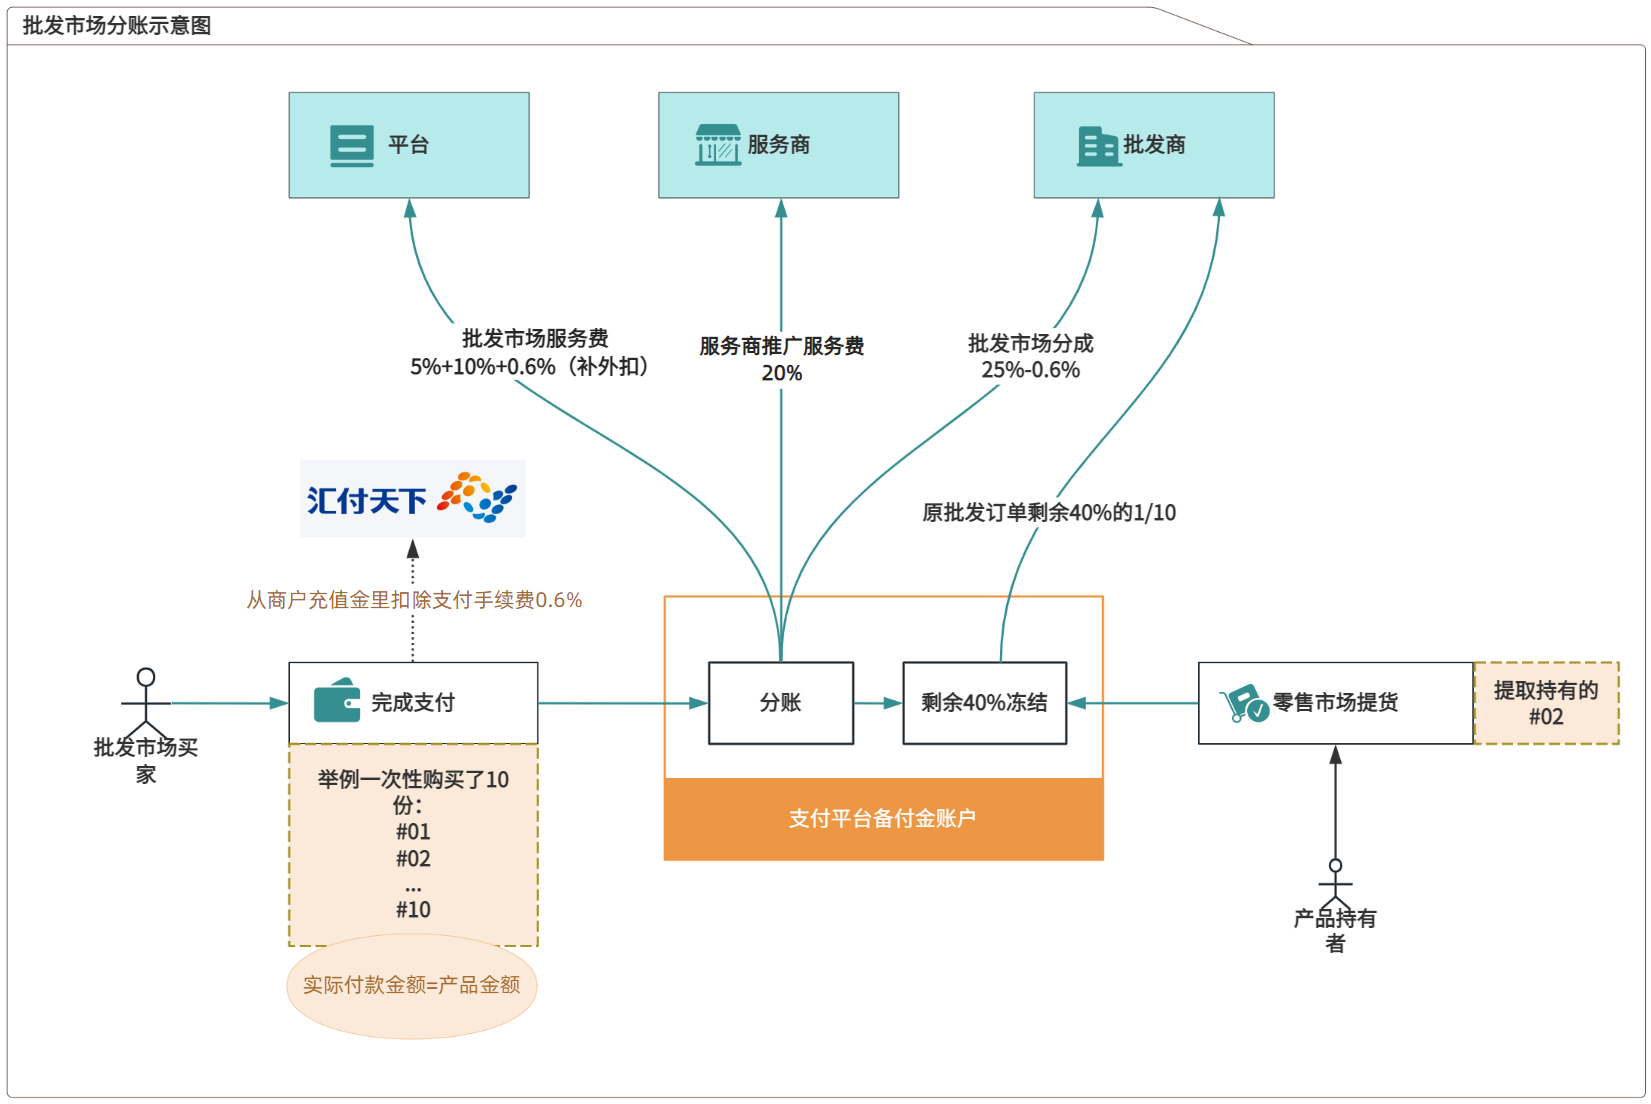
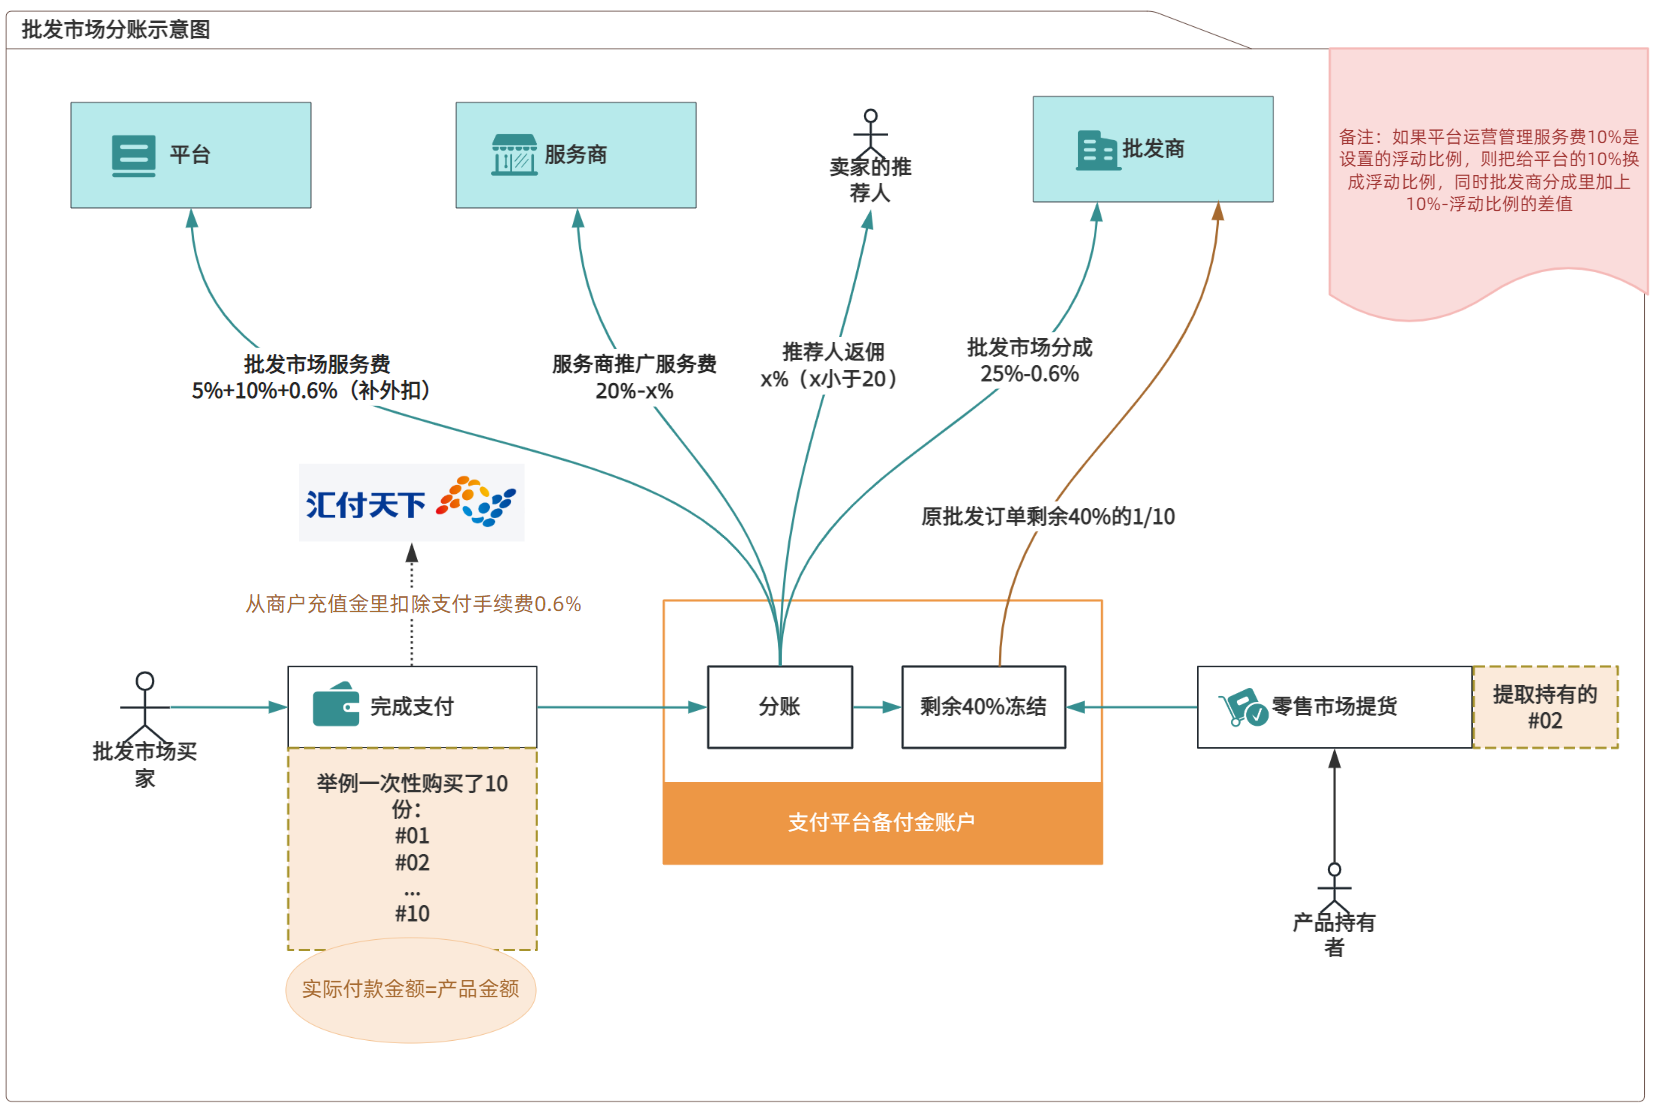
modify

diff --git a/huifu/admin/批发市场分账管理.html b/huifu/admin/批发市场分账管理.html
@@ -146,11 +146,12 @@
             background: #fff;
             margin: 12px;
             border-radius: 6px;
-            overflow: hidden;
+            overflow-x: auto;
         }
         .table {
             width: 100%;
             border-collapse: collapse;
+            table-layout: auto;
         }
         .table th {
             background: #fafbfc;
@@ -161,16 +162,20 @@
             font-weight: 500;
             border-bottom: 1px solid #f0f0f0;
             white-space: nowrap;
+            vertical-align: middle;
         }
         .table td {
-            padding: 12px 10px;
+            padding: 10px 10px;
             font-size: 12px;
             color: #1a1a2e;
             border-bottom: 1px solid #f5f5f7;
-            white-space: nowrap;
+            vertical-align: top;
         }
         .table tr:last-child td { border-bottom: none; }
-        .seq { color: #9ba6b9; }
+        .cell-main { font-weight: 500; }
+        .cell-sub { color: #86909c; font-size: 11px; margin-top: 2px; }
+        .cell-rate { color: #e67e22; font-size: 11px; margin-top: 2px; }
+        .amount-val { font-weight: 500; }
 
         .pagination {
             padding: 12px 20px;
@@ -287,27 +292,20 @@
     <table class="table">
         <thead>
             <tr>
-                <th class="seq">序号</th>
                 <th>订单编号</th>
                 <th>产品名称</th>
                 <th>用户账号</th>
-                <th>购买数量</th>
-                <th>单价</th>
+                <th>数量/单价</th>
                 <th>总价</th>
                 <th>第三方支付手续费</th>
                 <th>创建时间</th>
                 <th>首次分账时间</th>
                 <th>批发商分账</th>
-                <th>批发商分账比例</th>
                 <th>服务商分账</th>
-                <th>服务商分账比例</th>
+                <th>推荐人分账</th>
                 <th>平台分账</th>
-                <th>平台分账比例</th>
-                <th>零售市场分账总次数</th>
-                <th>零售市场分账总数量</th>
-                <th>零售市场分账总金额</th>
+                <th>零售市场分账</th>
                 <th>剩余金额</th>
-                <th>最后分账时间</th>
                 <th>零售市场最后分账时间</th>
             </tr>
         </thead>
@@ -333,13 +331,14 @@
     <h4>列表字段</h4>
     <ul>
       <li>订单编号、产品名称、用户账号、购买数量、单价、总价、第三方支付手续费、创建时间、首次分账时间</li>
-      <li>批发商分账、批发商分账比例、服务商分账、服务商分账比例、平台分账、平台分账比例、零售市场分账总次数、零售市场分账总数量、零售市场分账总金额、剩余金额、最后分账时间、零售市场最后分账时间</li>
+      <li>订单编号、产品名称、用户账号、数量/单价、总价、第三方支付手续费、创建时间、首次分账时间、批发商分账（金额+比例）、服务商分账（金额+比例）、推荐人分账（金额+比例）、平台分账（金额+比例）、零售市场分账（次数×数量/金额）、剩余金额、零售市场最后分账时间</li>
     </ul>
     <h4>首次分账逻辑</h4>
     <ul>
-      <li>平台分账：<b>15% + 0.6%</b></li>
-      <li>服务商分账：<b>20%</b></li>
-      <li>批发商分账：<b>25% - 0.6%</b></li>
+      <li>平台分账：<b>15% + 0.6%</b>（如果平台运营管理服务费设置的浮动比例，则是5%+浮动比例）</li>
+      <li>服务商分账：<b>20% - 3%</b>（20%-推荐人分账）</li>
+      <li>批发商分账：<b>25% - 0.6%</b>（如果平台运营管理服务费设置的浮动比例，则是25%+10%-浮动比例-0.6%）</li>
+      <li>推荐人分账：<b>3%</b>（根据后台设置，比如3%）</li>
     </ul>
     <h4>分账计算规则</h4>
     <ul>
@@ -352,12 +351,12 @@
 
 <script>
 var data = [
-    { id: 1, orderNo: 'XB-first26071505024701', product: '中路财童', userNo: '1876829699476860930', qty: 5, price: 128.00, total: 640.00, fee: 3.84, createTime: '2026-07-15 13:57:39', firstTime: '2026-07-15 14:00:01', wsShare: 156.16, wsRate: '25%-0.6%', svShare: 128.00, svRate: '20%', pfShare: 99.84, pfRate: '15%+0.6%', rCount: 3, rQty: 3, rAmount: 153.60, remain: 102.40, lastTime: '2026-07-18 09:00:00', rLastTime: '2026-07-18 10:12:33' },
-    { id: 2, orderNo: 'XB-first26071505016701', product: '中路财童', userNo: '1878638327087280130', qty: 8, price: 260.00, total: 2080.00, fee: 12.48, createTime: '2026-07-15 13:56:24', firstTime: '2026-07-15 13:58:02', wsShare: 507.52, wsRate: '25%-0.6%', svShare: 416.00, svRate: '20%', pfShare: 324.48, pfRate: '15%+0.6%', rCount: 5, rQty: 5, rAmount: 520.00, remain: 312.00, lastTime: '2026-07-16 09:00:00', rLastTime: '2026-07-16 09:20:11' },
-    { id: 3, orderNo: 'XB-first26071504105201', product: '中路财童', userNo: '1881547100063838210', qty: 12, price: 320.00, total: 3840.00, fee: 23.04, createTime: '2026-07-15 11:24:14', firstTime: '2026-07-15 11:26:45', wsShare: 936.96, wsRate: '25%-0.6%', svShare: 768.00, svRate: '20%', pfShare: 599.04, pfRate: '15%+0.6%', rCount: 0, rQty: 0, rAmount: 0.00, remain: 1536.00, lastTime: '-', rLastTime: '-' },
-    { id: 4, orderNo: 'XB-first26071504026701', product: '中路财童', userNo: '2061664641202323457', qty: 3, price: 100.00, total: 300.00, fee: 1.80, createTime: '2026-07-15 11:11:16', firstTime: '2026-07-15 11:12:30', wsShare: 73.20, wsRate: '25%-0.6%', svShare: 60.00, svRate: '20%', pfShare: 46.80, pfRate: '15%+0.6%', rCount: 2, rQty: 2, rAmount: 80.00, remain: 40.00, lastTime: '2026-07-15 11:10:00', rLastTime: '2026-07-15 11:12:31' },
-    { id: 5, orderNo: 'XB-first26071504008801', product: '中路财童', userNo: '1881528763372056578', qty: 6, price: 420.00, total: 2520.00, fee: 15.12, createTime: '2026-07-15 11:08:19', firstTime: '2026-07-15 11:10:05', wsShare: 614.88, wsRate: '25%-0.6%', svShare: 504.00, svRate: '20%', pfShare: 393.12, pfRate: '15%+0.6%', rCount: 4, rQty: 4, rAmount: 672.00, remain: 336.00, lastTime: '2026-07-19 15:00:00', rLastTime: '2026-07-19 15:42:58' },
-    { id: 6, orderNo: 'XB-first26071503857801', product: '中路财童', userNo: '1977229438734100253', qty: 9, price: 180.00, total: 1620.00, fee: 9.72, createTime: '2026-07-15 10:42:58', firstTime: '2026-07-15 10:45:12', wsShare: 395.28, wsRate: '25%-0.6%', svShare: 324.00, svRate: '20%', pfShare: 252.72, pfRate: '15%+0.6%', rCount: 6, rQty: 6, rAmount: 432.00, remain: 216.00, lastTime: '2026-07-16 14:00:00', rLastTime: '2026-07-16 14:05:20' }
+    { id: 1, orderNo: 'XB-first26071505024701', product: '中路财童', userNo: '1876829699476860930', qty: 5, price: 128.00, total: 640.00, fee: 3.84, createTime: '2026-07-15 13:57:39', firstTime: '2026-07-15 14:00:01', wsShare: 156.16, wsRate: '25%-0.6%', svShare: 108.80, svRate: '20%-3%', recommendShare: 19.20, recommendRate: '3%', pfShare: 99.84, pfRate: '15%+0.6%', rCount: 3, rQty: 3, rAmount: 165.12, remain: 110.08, lastTime: '2026-07-18 09:00:00', rLastTime: '2026-07-18 10:12:33' },
+    { id: 2, orderNo: 'XB-first26071505016701', product: '中路财童', userNo: '1878638327087280130', qty: 8, price: 260.00, total: 2080.00, fee: 12.48, createTime: '2026-07-15 13:56:24', firstTime: '2026-07-15 13:58:02', wsShare: 507.52, wsRate: '25%-0.6%', svShare: 353.60, svRate: '20%-3%', recommendShare: 62.40, recommendRate: '3%', pfShare: 324.48, pfRate: '15%+0.6%', rCount: 5, rQty: 5, rAmount: 559.00, remain: 335.40, lastTime: '2026-07-16 09:00:00', rLastTime: '2026-07-16 09:20:11' },
+    { id: 3, orderNo: 'XB-first26071504105201', product: '中路财童', userNo: '1881547100063838210', qty: 12, price: 320.00, total: 3840.00, fee: 23.04, createTime: '2026-07-15 11:24:14', firstTime: '2026-07-15 11:26:45', wsShare: 936.96, wsRate: '25%-0.6%', svShare: 652.80, svRate: '20%-3%', recommendShare: 115.20, recommendRate: '3%', pfShare: 599.04, pfRate: '15%+0.6%', rCount: 0, rQty: 0, rAmount: 0.00, remain: 1651.20, lastTime: '-', rLastTime: '-' },
+    { id: 4, orderNo: 'XB-first26071504026701', product: '中路财童', userNo: '2061664641202323457', qty: 3, price: 100.00, total: 300.00, fee: 1.80, createTime: '2026-07-15 11:11:16', firstTime: '2026-07-15 11:12:30', wsShare: 73.20, wsRate: '25%-0.6%', svShare: 51.00, svRate: '20%-3%', recommendShare: 9.00, recommendRate: '3%', pfShare: 46.80, pfRate: '15%+0.6%', rCount: 2, rQty: 2, rAmount: 86.00, remain: 43.00, lastTime: '2026-07-15 11:10:00', rLastTime: '2026-07-15 11:12:31' },
+    { id: 5, orderNo: 'XB-first26071504008801', product: '中路财童', userNo: '1881528763372056578', qty: 6, price: 420.00, total: 2520.00, fee: 15.12, createTime: '2026-07-15 11:08:19', firstTime: '2026-07-15 11:10:05', wsShare: 614.88, wsRate: '25%-0.6%', svShare: 428.40, svRate: '20%-3%', recommendShare: 75.60, recommendRate: '3%', pfShare: 393.12, pfRate: '15%+0.6%', rCount: 4, rQty: 4, rAmount: 722.40, remain: 361.20, lastTime: '2026-07-19 15:00:00', rLastTime: '2026-07-19 15:42:58' },
+    { id: 6, orderNo: 'XB-first26071503857801', product: '中路财童', userNo: '1977229438734100253', qty: 9, price: 180.00, total: 1620.00, fee: 9.72, createTime: '2026-07-15 10:42:58', firstTime: '2026-07-15 10:45:12', wsShare: 395.28, wsRate: '25%-0.6%', svShare: 275.40, svRate: '20%-3%', recommendShare: 48.60, recommendRate: '3%', pfShare: 252.72, pfRate: '15%+0.6%', rCount: 6, rQty: 6, rAmount: 464.40, remain: 232.20, lastTime: '2026-07-16 14:00:00', rLastTime: '2026-07-16 14:05:20' }
 ];
 
 function renderTable() {
@@ -365,27 +364,20 @@ function renderTable() {
     data.forEach(function(o) {
         html += [
             '<tr>',
-            '    <td class="seq">' + o.id + '</td>',
             '    <td>' + o.orderNo + '</td>',
             '    <td>' + o.product + '</td>',
             '    <td>' + o.userNo + '</td>',
-            '    <td>' + o.qty + '</td>',
-            '    <td>' + o.price.toFixed(2) + '</td>',
-            '    <td>' + o.total.toFixed(2) + '</td>',
-            '    <td>' + o.fee.toFixed(2) + '</td>',
+            '    <td><div class="cell-main">' + o.qty + '</div><div class="cell-sub">¥' + o.price.toFixed(2) + '</div></td>',
+            '    <td><div class="amount-val">¥' + o.total.toFixed(2) + '</div></td>',
+            '    <td><div>¥' + o.fee.toFixed(2) + '</div></td>',
             '    <td>' + o.createTime + '</td>',
             '    <td>' + o.firstTime + '</td>',
-            '    <td>' + o.wsShare.toFixed(2) + '</td>',
-            '    <td>' + o.wsRate + '</td>',
-            '    <td>' + o.svShare.toFixed(2) + '</td>',
-            '    <td>' + o.svRate + '</td>',
-            '    <td>' + o.pfShare.toFixed(2) + '</td>',
-            '    <td>' + o.pfRate + '</td>',
-            '    <td>' + o.rCount + '</td>',
-            '    <td>' + o.rQty + '</td>',
-            '    <td>' + o.rAmount.toFixed(2) + '</td>',
-            '    <td>' + o.remain.toFixed(2) + '</td>',
-            '    <td>' + (o.lastTime || '-') + '</td>',
+            '    <td><div class="cell-main">¥' + o.wsShare.toFixed(2) + '</div><div class="cell-rate">' + o.wsRate + '</div></td>',
+            '    <td><div class="cell-main">¥' + o.svShare.toFixed(2) + '</div><div class="cell-rate">' + o.svRate + '</div></td>',
+            '    <td><div class="cell-main">¥' + o.recommendShare.toFixed(2) + '</div><div class="cell-rate">' + o.recommendRate + '</div></td>',
+            '    <td><div class="cell-main">¥' + o.pfShare.toFixed(2) + '</div><div class="cell-rate">' + o.pfRate + '</div></td>',
+            '    <td><div class="cell-main">次数 ' + o.rCount + ' × ' + o.rQty + '</div><div class="cell-sub">¥' + o.rAmount.toFixed(2) + '</div></td>',
+            '    <td><div class="amount-val">¥' + o.remain.toFixed(2) + '</div></td>',
             '    <td>' + o.rLastTime + '</td>',
             '</tr>'
         ].join('');

diff --git a/huifu/admin/产品上线设置.html b/huifu/admin/产品上线设置.html
@@ -461,7 +461,7 @@
             </div>
 
             <div class="form-row">
-                <div class="form-label">零售市场价值浮动区间(%)</div>
+                <div class="form-label">零售市场价值浮动区间(%)<span class="badge" style="margin-left:4px;">4</span></div>
                 <div class="form-control">
                     <div class="range-input">
                         <input type="number" value="5">
@@ -528,6 +528,11 @@
     <h4><span class="badge">3</span> <span style="vertical-align:middle;">批发商分成比例</span></h4>
     <ul>
       <li>去掉<b>批发商分成比例</b>设置</li>
+    </ul>
+    <h4><span class="badge">4</span> <span style="vertical-align:middle;">零售市场价值浮动区间</span></h4>
+    <ul>
+      <li>价值浮动率控制在 <b>±5%</b></li>
+      <li>如果是设置时间是该产品<b>零售上货首日</b>，可以设置到 <b>±30%</b></li>
     </ul>
   </div>
 </div>
